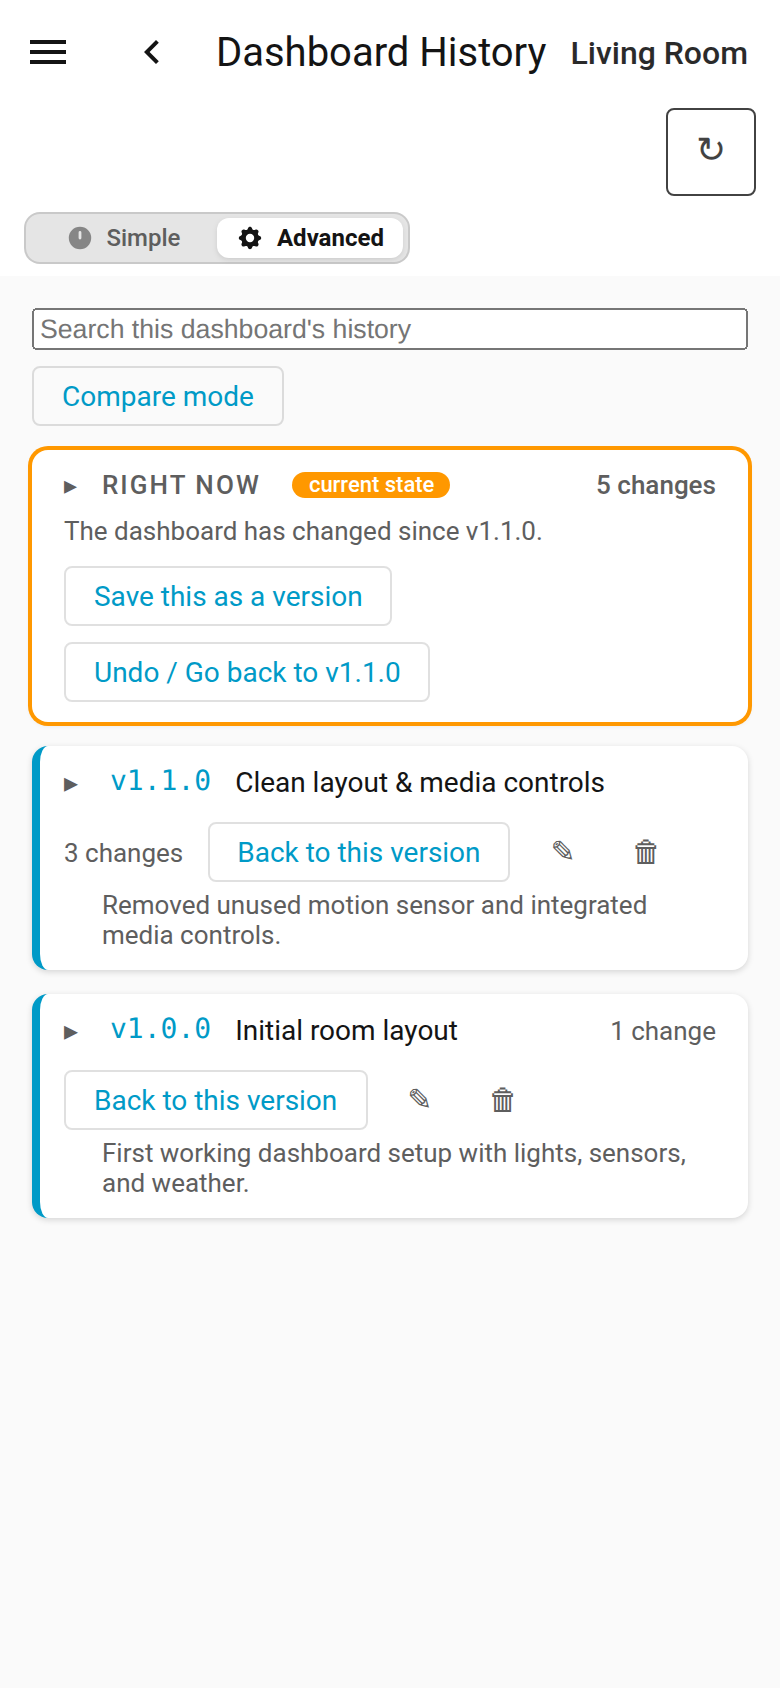
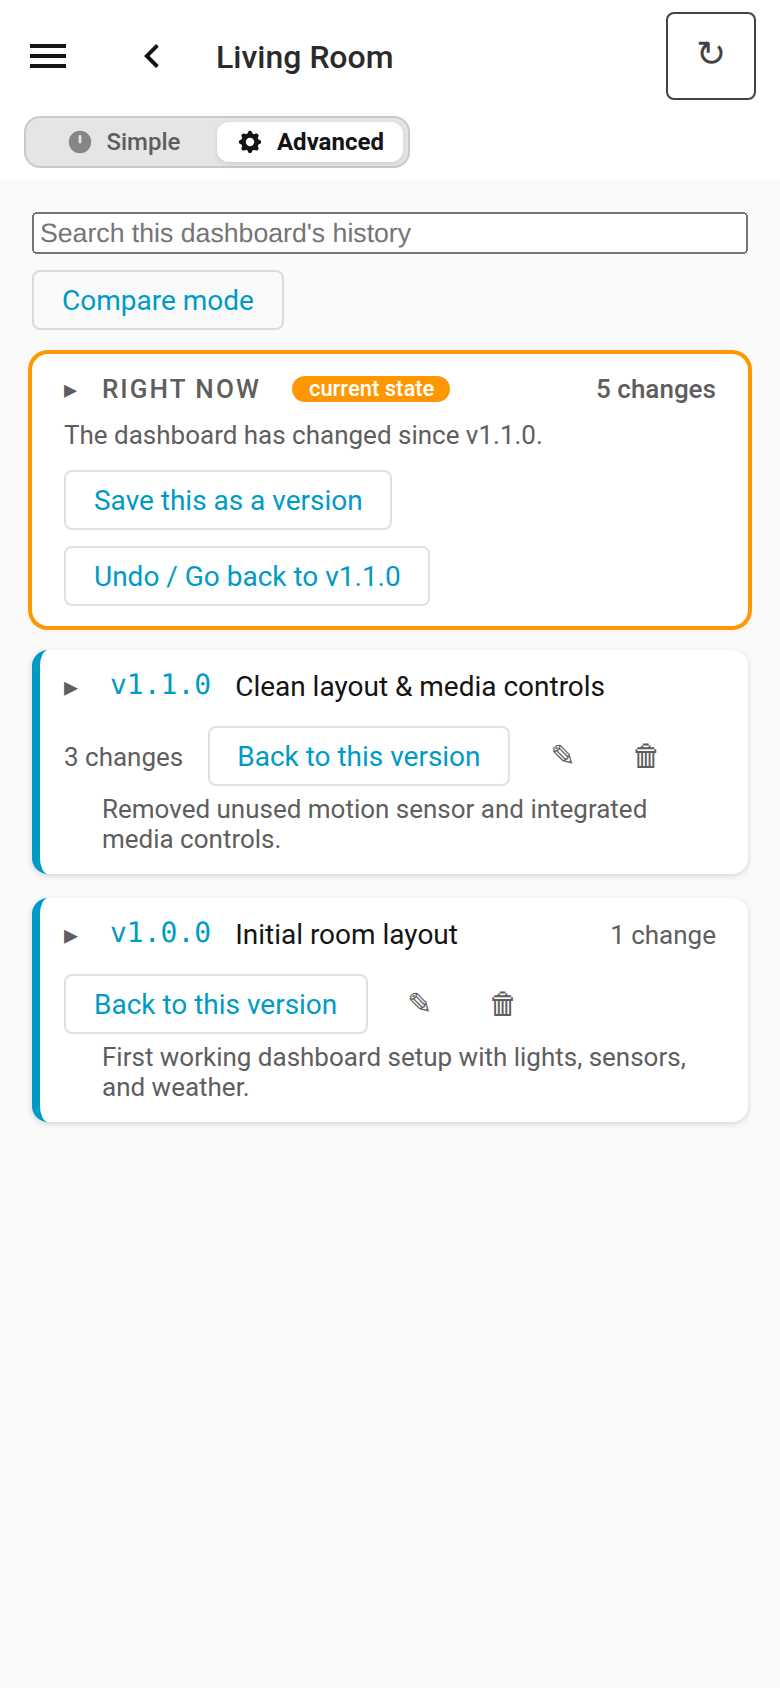
Give the narrow bar back its second row
The decision writes the narrow bar as one row holding the menu, the
back arrow, the title and reload, with the mode switch under it. Built
without this rule it came out three rows tall: "Dashboard History"
filled the first by itself, the dashboard name dropped to the second,
and reload stranded at the right of that row on margin-left: auto.

Nothing said so. The measurement reported a 124px bar, which is
correct, unremarkable, and silent about the shape. It took looking at
the screenshot - which is why the plan asked for that in words.

The panel's own name goes below the band and the dashboard's stays.
Home Assistant's sidebar entry and the page title both say "Dashboard
History" already; what a phone is missing is which dashboard it is
showing. 124px of bar becomes 86px, and the wide screen is untouched
at 56.

The two narrow screenshots are retaken in the same commit, or they
would show a bar that no longer exists.

diff --git a/custom_components/dashboard_history/panel/style.js b/custom_components/dashboard_history/panel/style.js
@@ -139,6 +139,19 @@ export const STYLE = `
     .bar { gap: 8px 12px; padding: 6px 12px; }
     .bar > .segmented-control { order: 10; flex-basis: 100%; }
     .bar .which { flex: 1 1 auto; }
+    /* The panel's own name goes, and the dashboard's stays. Written as
+       "the first row holds the menu, the back arrow, the title and
+       reload" and built without this, the bar came out three rows tall:
+       "Dashboard History" filled the first one by itself, the dashboard
+       name dropped to the second, and reload stranded at the right of
+       it with margin-left: auto. Measured on a screenshot at 390px -
+       124px of bar for four controls, against 86px with this rule.
+
+       Nothing is lost by it. Home Assistant's sidebar entry and the
+       page title both say "Dashboard History" already; what is missing
+       on a phone is which dashboard one is looking at, and that is the
+       one label this leaves standing. */
+    .bar .app { display: none; }
   }
   .layout { display: flex; align-items: stretch; flex: 1 1 auto; min-height: 0; }
   .side {

diff --git a/custom_components/dashboard_history/panel.js b/custom_components/dashboard_history/panel.js
@@ -3428,7 +3428,7 @@ class DashboardHistoryPanel extends HTMLElement {
              </svg>
            </button>`
         : ""}
-        <span>Dashboard History</span>
+        <span class="app">Dashboard History</span>
         ${this._renderModeSwitch()}
         <span class="which">${escape(this._selectedTitle())}</span>
         ${this._busy ? '<span class="muted" style="font-size:14px">working\u2026</span>' : ""}
